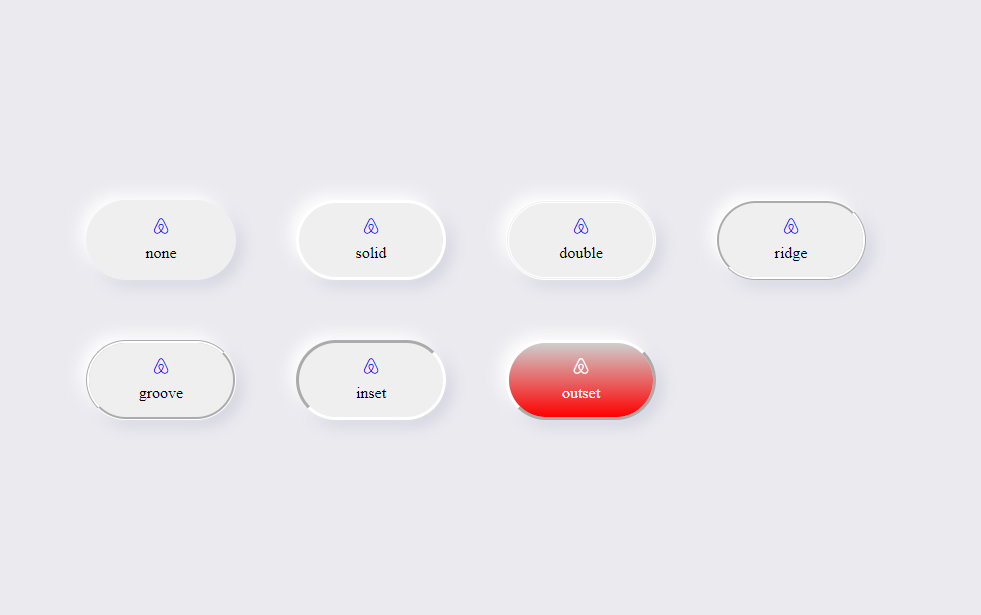
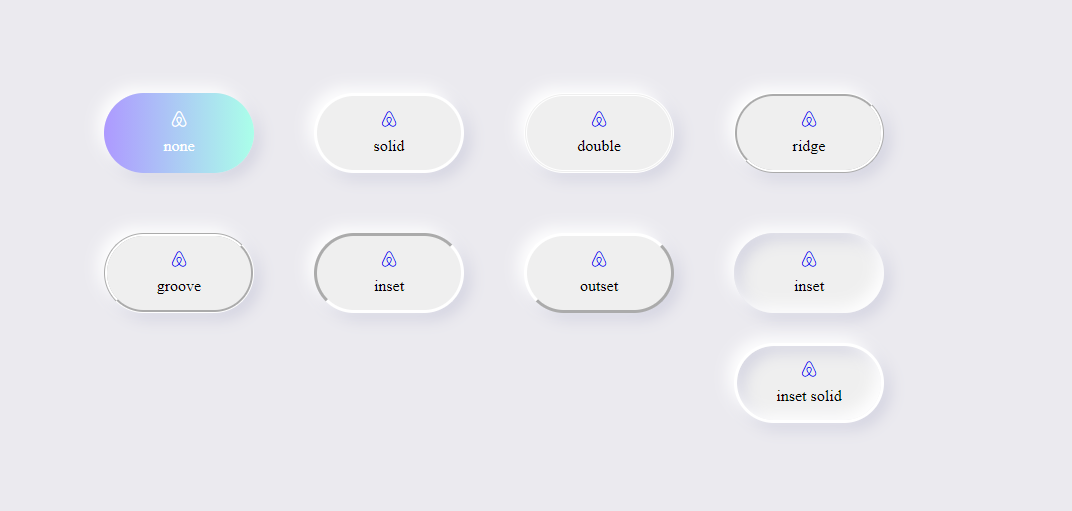
add inset btn

diff --git a/style.css b/style.css
@@ -45,6 +45,11 @@ body {
   -o-border-radius: 50px;
 }
 
+.button.shadow-inset {
+  box-shadow: -6px -6px 15px rgb(255 255 255), 6px 6px 15px rgb(209 209 223),
+    inset -6px -6px 15px rgb(255 255 255), inset 6px 6px 15px rgb(209 209 223);
+}
+
 .button.solid {
   border-style: solid;
 }
@@ -95,7 +100,7 @@ body {
   width: 100%;
   height: 100%;
   left: -100%;
-  background: linear-gradient(to bottom, rgb(206, 206, 206), red);
+  background: linear-gradient(to right, rgb(173 153 255), #aaffe9);
   transition: 0.3s;
   z-index: 5;
 }

diff --git a/index.html b/index.html
@@ -63,6 +63,22 @@
       <span>outset</span>
     </div>
 
+    <div>
+      <div class="button shadow-inset">
+        <a href="#">
+          <i class="lni lni-airbnb"></i>
+        </a>
+        <span>inset</span>
+      </div>
+
+      <div class="button solid shadow-inset">
+        <a href="#">
+          <i class="lni lni-airbnb"></i>
+        </a>
+        <span>inset solid</span>
+      </div>
+    </div>
+
   </div>
 </body>
 
